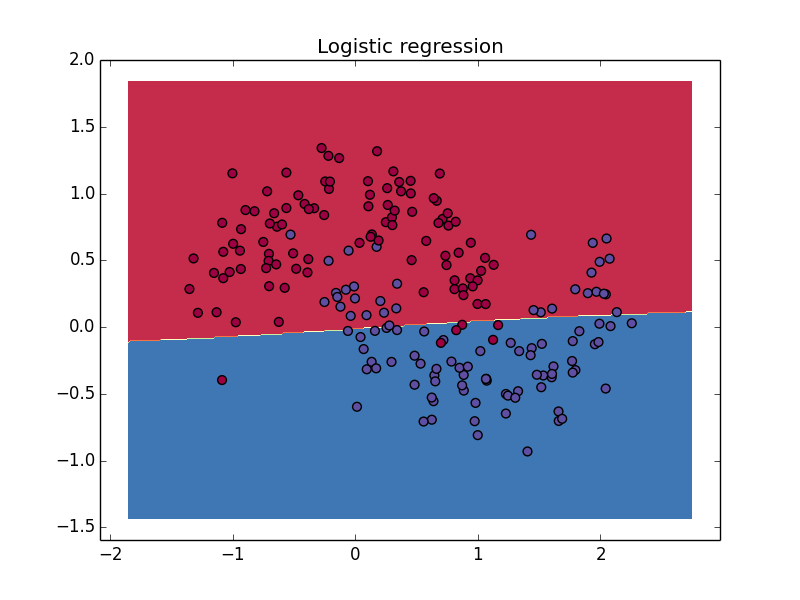
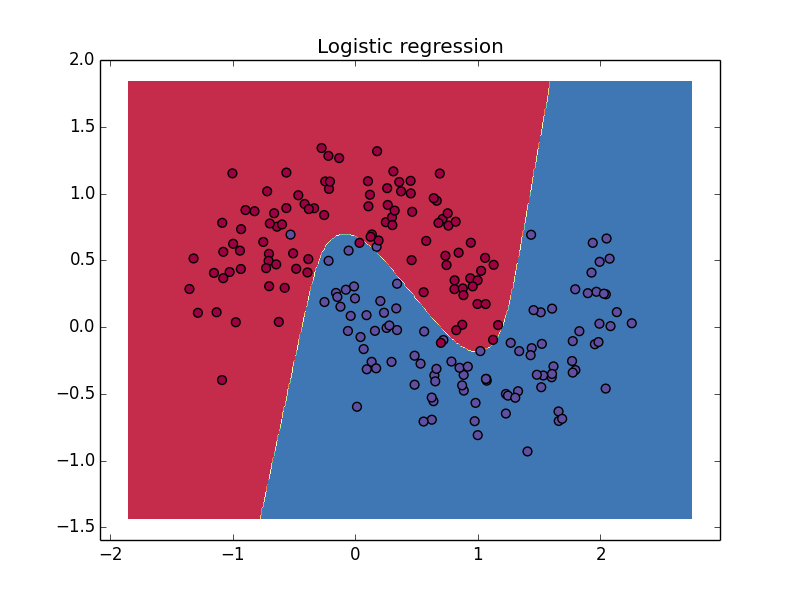
vs erl

Changed region(s): [[0.1562, 0.12, 0.875, 0.87]]

diff --git a/main.py b/main.py
@@ -2,6 +2,8 @@
 # -*- coding: utf-8 -*-
 
 import sys
+import time
+from pprint import pprint
 
 import matplotlib.pyplot as plt
 import numpy as np
@@ -11,6 +13,12 @@ path = "./result/"
 dataset_size = 200
 loss_delta = 0.0000001
 
+class Profiler(object):
+	def __enter__(self):
+		self._startTime = time.time()
+
+	def __exit__(self, type, value, traceback):
+		print "\tElapsed time: {:.3f} sec".format(time.time() - self._startTime)
 
 class Config:
 	nn_input_dim = 2
@@ -20,7 +28,7 @@ class Config:
 
 
 def generate_data():
-	np.random.seed(0)
+#	np.random.seed(0)
 	X, y = datasets.make_moons(dataset_size, noise=0.20)
 	return X, y
 
@@ -56,6 +64,7 @@ def plot_decision_boundary(pred_func, X, y, i):
 
 	plt.contourf(xx, yy, Z, cmap=plt.cm.Spectral)
 	plt.scatter(X[:,0], X[:,1], s=40, c=y, cmap=plt.cm.Spectral)
+#	plt.scatter(X[:,0], X[:,1], s=40, c=y)
 	plt.savefig(path + str(i) + ".png", format='png')
 
 
@@ -63,24 +72,24 @@ def calculate_loss(X, y, model):
 	num_examples = len(X)
 	W1, W2 = model["W1"], model["W2"]
 
-	y_hat, _, _, _ = forward_propogation(X, model)
+	y_hat, _, _, _ = forward_propagation(X, model)
 
 	correct_logprobs = -np.log(y_hat[range(num_examples), y])
 	data_loss = np.sum(correct_logprobs)
-	# L2 регулязация
+	#регулязация
 	data_loss += Config.reg_lambda / 2 * (np.sum(np.square(W1)) + np.sum(np.square(W2)))
 
 	return 1. / num_examples * data_loss
 
 
 def predict(X, model):
-	output, _, _, _ = forward_propogation(X, model)
+	output, _, _, _ = forward_propagation(X, model)
 	# возвращает массив с результатами предсказаний для всех точек на
 	# координатной плоскости [0, 1, 1, 0, 0, ..]
 	return np.argmax(output, axis=1)
 
 
-def forward_propogation(X, model):
+def forward_propagation(X, model):
 	# Проход по нейронной сети вперед
 	W1, b1, W2, b2 = model["W1"], model["b1"], model["W2"], model["b2"]
 	# z1 - вектор-результат взвешенной суммы входного вектора
@@ -118,7 +127,7 @@ def train_network(X, y, model, print_loss=False):
 	i = 0
 
 	while True:
-		y_hat, _, a1, _ = forward_propogation(X, model)
+		y_hat, _, a1, _ = forward_propagation(X, model)
 
 		dW1, db1, dW2, db2 = backpropogation(X, y, y_hat, a1, model)
 
@@ -132,7 +141,7 @@ def train_network(X, y, model, print_loss=False):
 
 		current_loss = calculate_loss(X, y, model)
 		if i % 50 == 0:
-			visualize(X, y, model, i)
+#			visualize(X, y, model, i)
 			print("\tLoss after iteration %i: %f" % (i, current_loss))
 
 		if abs(current_loss - last_loss) > loss_delta:
@@ -167,21 +176,29 @@ def multilayer_perceptron(X, y, nn_hdim):
 
 def main():
 	X, y = generate_data()
-	#X - массив точек типа np.array - array([[x1,y1],[x2,y2],...])
-	#y - массив значений, принадлежность к классу - [1, 0, 0, 1, 1, ..]
-	visualize_linear(X, y)
-	hidden_neuron_quantity = 3
-	model = multilayer_perceptron(X, y, hidden_neuron_quantity)
-	visualize(X, y, model, 1)
-	model = train_network(X, y, model, print_loss=True)
-	visualize(X, y, model, 1000)
+	with Profiler() as p:
+		#X - массив точек типа np.array - array([[x1,y1],[x2,y2],...])
+		#y - массив значений, принадлежность к классу - [1, 0, 0, 1, 1, ..]
+	#	visualize_linear(X, y)
+		hidden_neuron_quantity = 3
+		model = multilayer_perceptron(X, y, hidden_neuron_quantity)
+		print "\n\tPerceptron before training:\n\t"
+		pprint(model)
+
+		visualize(X, y, model, "begin_py")
+		model = train_network(X, y, model, print_loss=True)
+		print "\n\tPerceptron after training:\n\t"
+		pprint(model)
+
 #======================================================================
-	model = {"W1":[[0.502703638026838,-0.07940177287485006,0.0676643617632425],[0.6422333385141343,0.49848412848487755,0.7287361615899521]],
-			"b1":[0.002238575156583027,-0.0056952413017793855,-4.501436229897266e-4],
-			"W2":[[0.803811322336427,0.8482215110448333],[0.7845396899360184,0.2789430765709011],[0.8748031603843943,0.4404382751438146]],
-			"b2":[0.00607508015762882,-0.006075080157628832]}
+	model2 = {
+		"W1": [[-3.363171846284268,3.9442164237878488,2.9922150117631654],[0.7930534650839552,-0.7758100494565097,2.5574413557182742]],
+		"b1": [-1.2451114742261244,-4.670694767699797,-2.244981504083405],
+		"W2": [[3.5987838698415566,-2.0161703693843216],[-4.030738233948683,5.10436937137815],[4.598538159596516,-4.246981385708192]],
+		"b2":[-0.7348899787424444,0.734889978742444]}
 #======================================================================
-	visualize(X, y, model, "erlang")
+	visualize(X, y, model, "python")
+#	visualize(X, y, model2, "erlang")
 
 
 if __name__ == "__main__":
